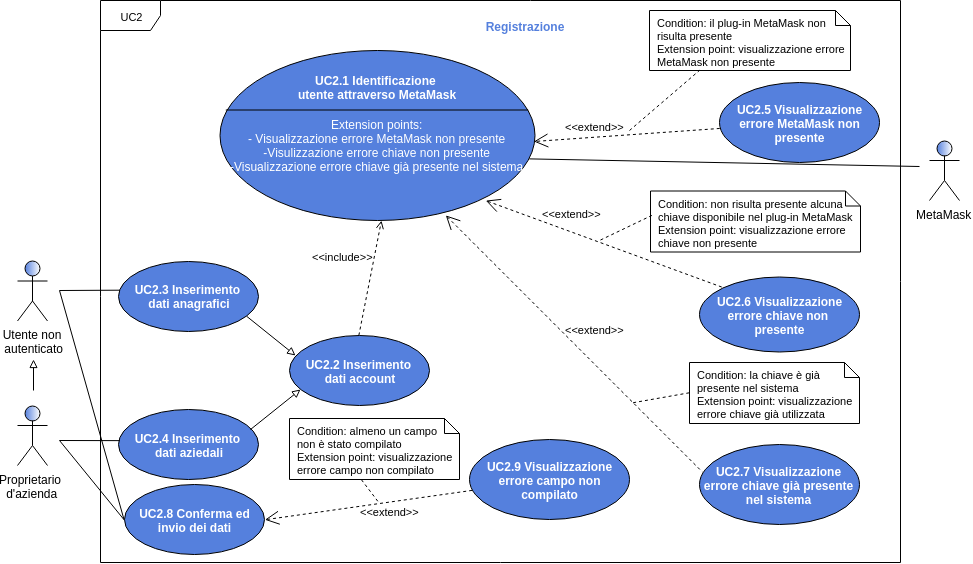
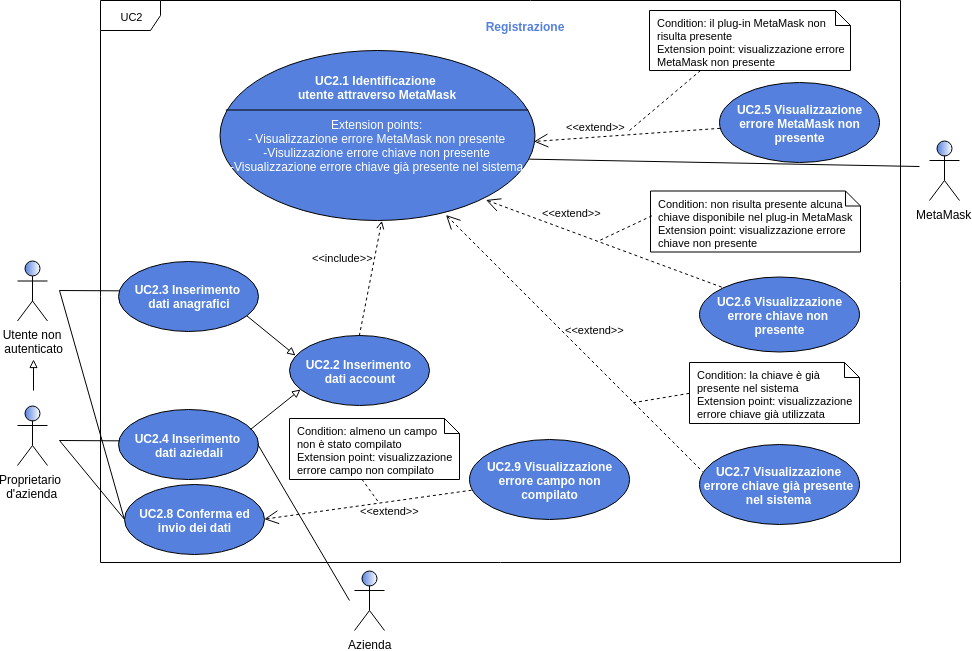
check

diff --git a/RR/Esterni/Analisi_dei_requisiti/res/sections/casi_duso.tex b/RR/Esterni/Analisi_dei_requisiti/res/sections/casi_duso.tex
@@ -187,6 +187,7 @@ In questa sezione vi sono elencati tutti i casi d'uso individuati. Ogni caso d'u
 \end{figure}
 \begin{itemize}
 	\item \textbf{Attori Primari}: proprietario d'azienda;
+	\item \textbf{Attori Secondari}: azienda;
 	\item \textbf{Descrizione}: l'utente compila i campi relativi alla registrazione della propria azienda sulla piattaforma;
 	\item \textbf{Scenario}: l'utente ha cliccato sul pulsante di registrazione di un'azienda, il sistema rende disponibile il form di registrazione relativo e l'utente compila tutti i campi necessari;
 	\item \textbf{Precondizione}: l'utente ha espresso la volontà di iscriversi alla piattaforma cliccando il link per la registrazione di un'azienda. Il sistema ha rilevato e salvato una chiave\glosp valida attraverso il plug-in MetaMask\glo;
@@ -316,15 +317,15 @@ In questa sezione vi sono elencati tutti i casi d'uso individuati. Ogni caso d'u
 	l'utente non ancora autenticato richiede il login;
 	\item \textbf{Estensioni}:
 	\begin{itemize}
-		\item \textbf{UC2.5}: se l'utente non dispone di MetaMask o ha disabilitato l'estensione, viene visualizzato un messaggio di errore a riguardo;
+		\item \textbf{UC2.5}: se l'utente non dispone di MetaMask\glosp o ha disabilitato l'estensione, viene visualizzato un messaggio di errore a riguardo;
 		\item \textbf{UC2.6}: se l'utente non possiede una chiave\glosp su MetaMask\glo, esso viene avvisato tramite l'apposito messaggio di errore;
-		\item \textbf{UC3.2}: se l'utente tenta di accedere al sito tramite MetaMask senza aver mai provveduto a registrarsi, riceverà un messaggio di errore a riguardo;
+		\item \textbf{UC3.2}: se l'utente tenta di accedere al sito tramite MetaMask\glosp senza aver mai provveduto a registrarsi, riceverà un messaggio di errore a riguardo;
 		\item \textbf{UC3.3}: se l'utente si è registarto sul sito da poco ma non gli è ancora stato validato l'account, visualizzerà un messaggio di errore a riguardo.
 	\end{itemize}
 	\item \textbf{Precondizione}:
 	l'utente richiede alla piattaforma di venire identificato;
 	\item \textbf{Postcondizione}:
-	tramite il plugin MetaMask\glo l'utente viene riconosciuto.
+	tramite il plugin MetaMask\glosp l'utente viene riconosciuto.
 \end{itemize}
 \subsubsection{UC3.2 - Visualizzazione messaggio di errore relativo a chiave non registrata}
 \begin{itemize}
@@ -392,7 +393,7 @@ In questa sezione vi sono elencati tutti i casi d'uso individuati. Ogni caso d'u
 	MetaMask\glo;
 	\item \textbf{Descrizione}: l'utente visualizza le istruzioni per procedere al logout tramite MetaMask\glo;
 	\item \textbf{Scenario}: in seguito alla richiesta di disconnessione, l'utente riceve le informazioni necessarie per effettuare tale operazione;
-	\item \textbf{Precondizione}:l 'utente non ha idea di come disconnettersi tramite MetaMask\glo;
+	\item \textbf{Precondizione}: l 'utente non ha idea di come disconnettersi tramite MetaMask\glo;
 	\item \textbf{Postcondizione}: l'utente ha le abilità necessarie al conseguimento di un logout eseguito in modo corretto e sicuro tramite il plugin MetaMask\glo.
 \end{itemize}
 
@@ -432,18 +433,18 @@ In questa sezione vi sono elencati tutti i casi d'uso individuati. Ogni caso d'u
 \begin{itemize}
 	\item \textbf{Attori Primari}: governo;
 	\item \textbf{Descrizione}: viene coniata una quantità definita di Cubit\glo;
-	\item \textbf{Scenario}: il governo ritiene necessario coniare ulteriori Cubit\glo rispetto a quelli attualmente presenti sul mercato;
-	\item \textbf{Precondizione}: siano \texttt{x} i Cubit\glo che il governo vuole coniare e \texttt{n} i Cubit\glo attualmente in circolo;
-	\item \textbf{Postcondizione}: i Cubit\glo in circolo sono \texttt{n+x}.
+	\item \textbf{Scenario}: il governo ritiene necessario coniare ulteriori Cubit\glosp rispetto a quelli attualmente presenti sul mercato;
+	\item \textbf{Precondizione}: siano \texttt{x} i Cubit\glosp che il governo vuole coniare e \texttt{n} i Cubit\glosp attualmente in circolo;
+	\item \textbf{Postcondizione}: i Cubit\glosp in circolo sono \texttt{n+x}.
 \end{itemize}
 \subsubsection{UC10 - Distribuzione Cubit}
 \begin{itemize}
 	\item \textbf{Attori Primari}: governo;
 	\item \textbf{Attori Secondari}: cittadino, business owner;
-	\item \textbf{Descrizione}: uno o più  utenti, che siano essi cittadini o business owners, riceveno una quantità di Cubit\glo da parte del governo;
-	\item \textbf{Scenario}: il governo clicca sull'apposito pulsante per distribuire una somma di Cubit definita, ad una o più persone specificate; 
-	\item \textbf{Precondizione}: il governo viene notificato di dover distribuire una quantità specifica di Cubit\glo ad uno o più utenti specifici;
-	\item \textbf{Postcondizione}: tali utenti ricevono i Cubit\glo da parte del governo.
+	\item \textbf{Descrizione}: uno o più  utenti, che siano essi cittadini o business owners, ricevono una quantità di Cubit\glosp da parte del governo;
+	\item \textbf{Scenario}: il governo clicca sull'apposito pulsante per distribuire una somma di Cubit\glosp definita, ad una o più persone specificate; 
+	\item \textbf{Precondizione}: il governo viene notificato di dover distribuire una quantità specifica di Cubit\glosp ad uno o più utenti specifici;
+	\item \textbf{Postcondizione}: tali utenti ricevono i Cubit\glosp da parte del governo.
 \end{itemize}
 \subsubsection{UC11 - Visualizzazione lista aziende}
 \begin{figure}[h]
@@ -547,6 +548,6 @@ In questa sezione vi sono elencati tutti i casi d'uso individuati. Ogni caso d'u
 	utente non autenticato;
 	\item \textbf{Descrizione}: l'utente visualizza le informazioni aggiuntive relative al rigetto del proprio account;
 	\item \textbf{Scenario}: in seguito al rifiuto dell'account, l'utente riceve le informazioni relative a tale rigetto da parte del governo;
-	\item \textbf{Precondizione}:l 'utente non ha idea del perchè non è stato accettato;
+	\item \textbf{Precondizione}: l 'utente non ha idea del perchè non è stato accettato;
 	\item \textbf{Postcondizione}: l'utente riconosce di aver inserito dati falsi o contenenti errori, pertanto dovrà riprovare la registrazione.
 \end{itemize}
